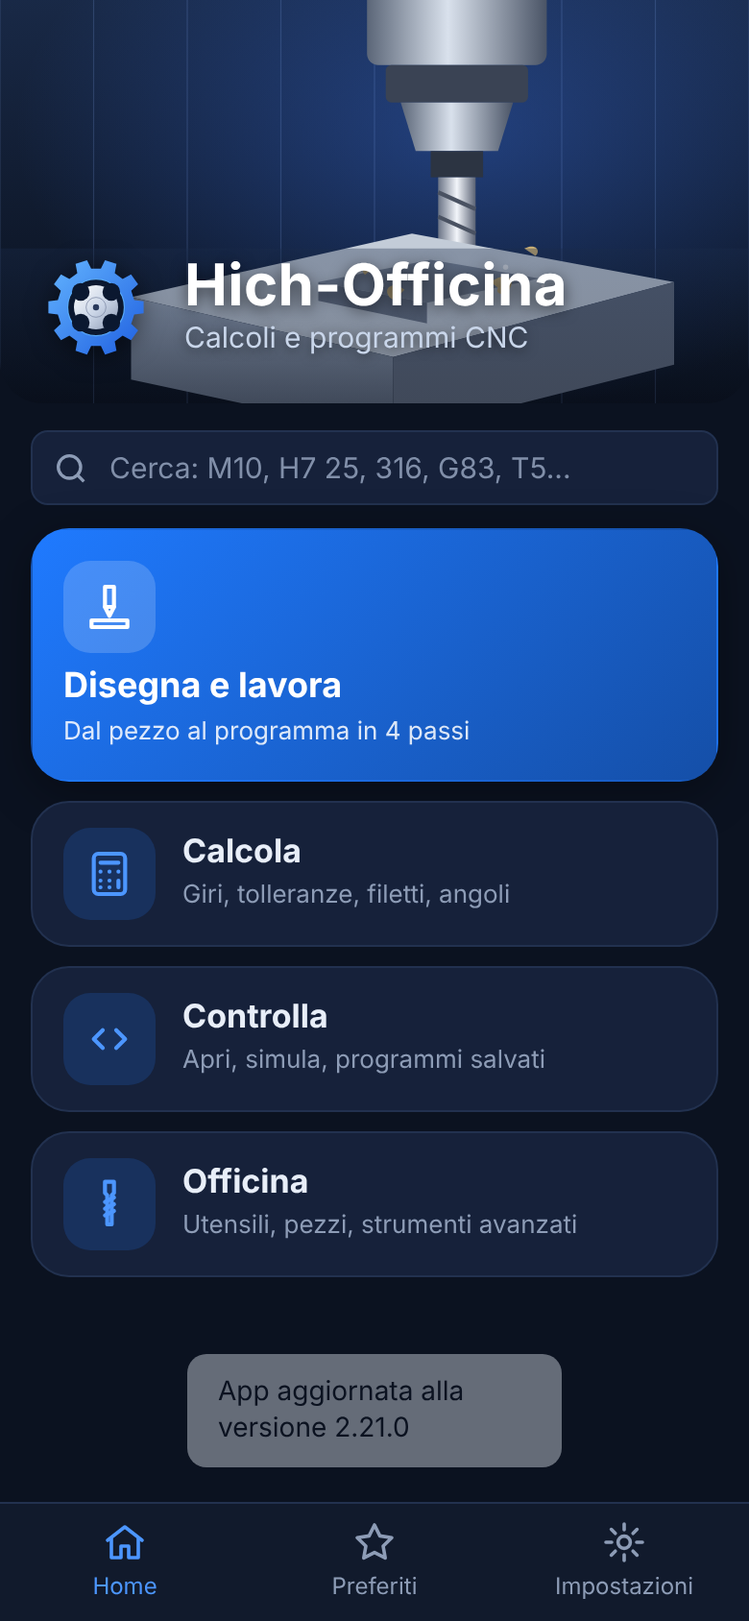
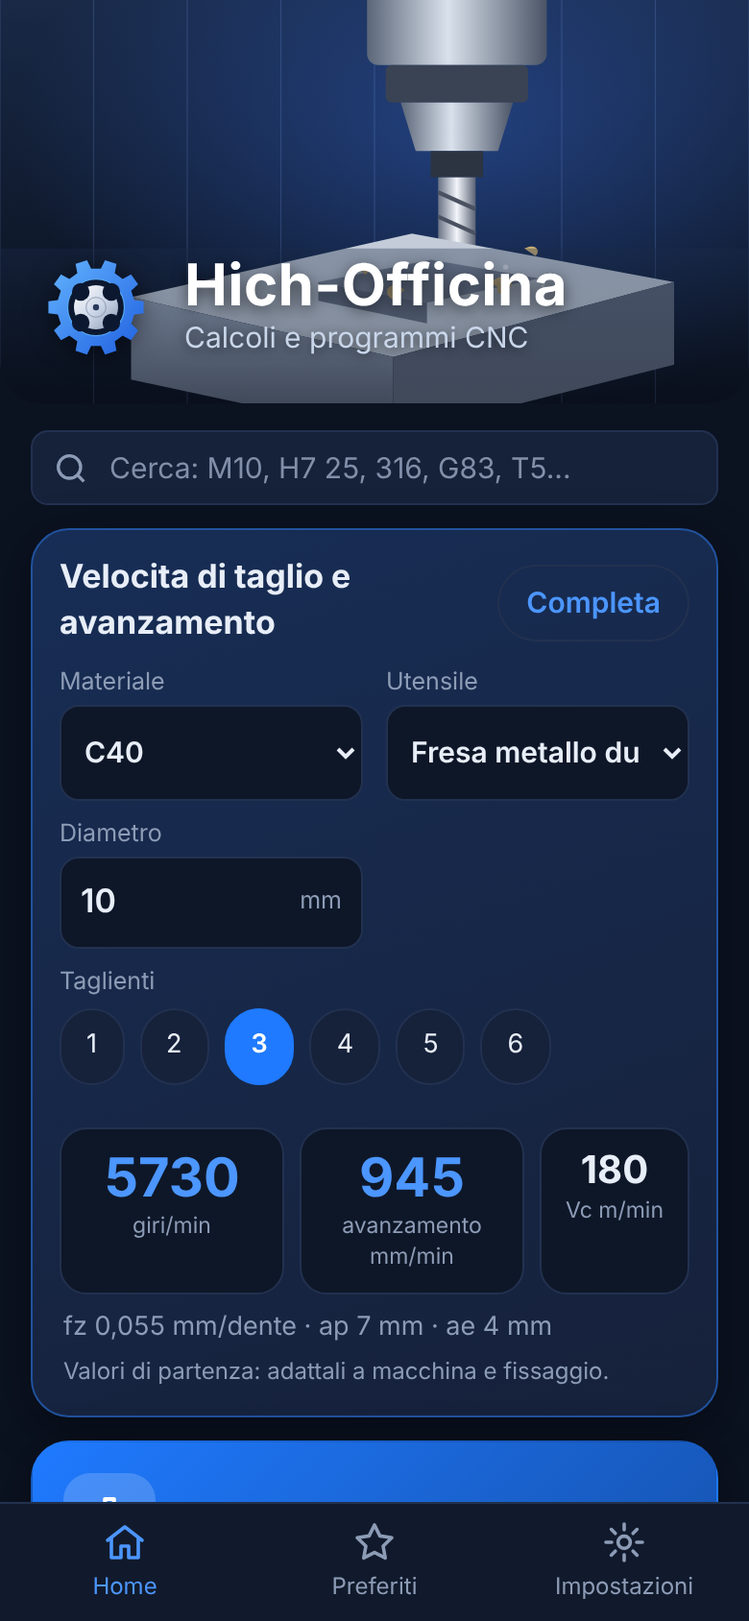
Hich-Officina 2.27.0: velocita di taglio e avanzamento in primo piano nella home
Claude-Session: https://claude.ai/code/session_01BbyHZTctjVowPbLungDKds

diff --git a/guida.html b/guida.html
@@ -25,7 +25,7 @@
   <h1>Come si fa</h1>
   <p class="sotto">Ogni funzione in pochi passi, con un esempio. La stessa guida e nell'app, con il pulsante per stampare o salvare in PDF.</p>
   <ul class="indice"><li><a href="#giri">Calcolare giri e avanzamenti</a></li><li><a href="#programma">Fare un programma di fresa, foratura o tornio</a></li><li><a href="#sequenza">Piu lavorazioni in un programma</a></li><li><a href="#profilo">Disegnare un profilo da tornio</a></li><li><a href="#dalDisegno">Dalla foto del disegno al pezzo</a></li><li><a href="#lavoro">Dal pezzo al programma in 4 passi</a></li><li><a href="#officina">Calcoli d'officina: barra seno, ingranaggi, dilatazione, potenza</a></li><li><a href="#cad">Disegnare e programmare la fresa col dito</a></li><li><a href="#ciclo">Ciclo di lavoro proposto</a></li><li><a href="#controllo">Controllare e simulare un programma</a></li><li><a href="#angolo">Misurare un angolo da una foto</a></li><li><a href="#tolleranze">Tolleranze e controllo misure</a></li><li><a href="#macro">Macro</a></li><li><a href="#pezzi">Pezzi, foto e foglio di attrezzaggio</a></li><li><a href="#utensili">Tabella utensili e materiali</a></li><li><a href="#macchina">Mandare il programma alla macchina</a></li><li><a href="#copia">Copia di sicurezza</a></li></ul>
-  <article id="giri" class="guida"><h2>Calcolare giri e avanzamenti</h2><ol><li>Home, Calcolatrice di taglio, scheda &quot;Per utensile&quot;.</li><li>Scegli il materiale, il tipo di utensile e il diametro.</li><li>Leggi giri al minuto, velocita di taglio, avanzamento e tutti gli utensili del materiale in tabella.</li></ol><p class="esempio"><b>Esempio:</b> Fresa D10 a 3 taglienti in C40: Vc 180 m/min, circa 5.730 giri/min, avanzamento 0,055 mm/dente.</p><p class="avviso"><b>Attenzione:</b> I valori sono di partenza: adattali a macchina, fissaggio e utensile.</p></article>
+  <article id="giri" class="guida"><h2>Calcolare giri e avanzamenti</h2><ol><li>Subito in cima alla home: scegli materiale e utensile, scrivi il diametro (e i taglienti): leggi giri, avanzamento e Vc. &quot;Completa&quot; apre la calcolatrice con tutti gli utensili.</li><li>Calcolatrice di taglio, scheda &quot;Per utensile&quot;.</li><li>Scegli il materiale, il tipo di utensile e il diametro.</li><li>Leggi giri al minuto, velocita di taglio, avanzamento e tutti gli utensili del materiale in tabella.</li></ol><p class="esempio"><b>Esempio:</b> Fresa D10 a 3 taglienti in C40: Vc 180 m/min, circa 5.730 giri/min, avanzamento 0,055 mm/dente.</p><p class="avviso"><b>Attenzione:</b> I valori sono di partenza: adattali a macchina, fissaggio e utensile.</p></article>
   <article id="programma" class="guida"><h2>Fare un programma di fresa, foratura o tornio</h2><ol><li>Home, Nuovo programma ISO. Scegli Fresatura, Foratura o Tornitura.</li><li>Scegli materiale e lavorazione, poi scrivi le misure.</li><li>Vc e avanzamento si riempiono dal materiale: li puoi correggere.</li><li>&quot;Genera programma ISO&quot;: copia, condividi, salva o simula.</li></ol><p class="esempio"><b>Esempio:</b> Foratura: M10x1,5 su 6 fori a cerchio D80: preforo 8,5, ciclo G84, giri e avanzamento dal materiale.</p><p class="avviso"><b>Attenzione:</b> Prova sempre a vuoto la prima volta.</p></article>
   <article id="sequenza" class="guida"><h2>Piu lavorazioni in un programma</h2><ol><li>In Fresatura o Foratura premi &quot;Aggiungi alla sequenza&quot; dopo ogni lavorazione.</li><li>&quot;Foro completo&quot; aggiunge centrino, punta, smusso e maschio o alesatore.</li><li>Scheda Sequenza: sposta con le frecce o &quot;Ordina come in officina&quot;.</li></ol><p class="esempio"><b>Esempio:</b> Spianatura, 4 fori M8 e contorno: l'ordine di officina li mette nella sequenza giusta e non fa il cambio utensile due volte.</p><p class="avviso"><b>Attenzione:</b> Un maschio prima del suo preforo non viene accettato.</p></article>
   <article id="profilo" class="guida"><h2>Disegnare un profilo da tornio</h2><ol><li>Home, Disegna un profilo. Tocca nel vuoto per i punti, a mano libera per un tratto.</li><li>Tocca una linea: la elimini, ne cambi Ø e lunghezza, la dividi, la fai arco.</li><li>Aggiungi linee con i bottoni Cilindro, Spallamento, Cono, Arco.</li><li>Su un cilindro: filetto, gola di scarico, tolleranza. Smussi e raggi con un tocco.</li><li>&quot;Crea il programma&quot; fa sgrossatura, finitura, gole e filetti.</li></ol><p class="esempio"><b>Esempio:</b> Albero: Ø20 lungo 25 con filetto M20x2,5 e gola, Ø30 h6 lungo 20: il Ø30 si finisce a 29,994.</p><p class="avviso"><b>Attenzione:</b> Due dita per lo zoom, la lente non c'e nel disegno: scrivi le quote nel riquadro della linea.</p></article>
@@ -45,7 +45,7 @@
 </div></section>
 </main>
 <footer class="piede"><div class="largo">
-  <p><b>Hich-Officina</b> 2.26.0 · Hich Tools</p>
+  <p><b>Hich-Officina</b> 2.27.0 · Hich Tools</p>
   <p class="piccolo">I valori di taglio e i programmi sono di partenza e indicativi: vanno sempre controllati e provati a vuoto prima di lavorare. I nomi dei controlli citati nell'app indicano solo la compatibilita e appartengono ai rispettivi proprietari.</p>
   <p class="piccolo"><a href="privacy.html">Privacy</a> · <a href="guida.html">Guida</a> · <a href="novita.html">Novita</a> · <a href="mailto:hichamloukili2020195@gmail.com">hichamloukili2020195@gmail.com</a></p>
 </div></footer>

diff --git a/novita.html b/novita.html
@@ -24,6 +24,7 @@
 <section class="sezione"><div class="largo stretto">
   <h1>Novita</h1>
   <p class="sotto">Cosa e cambiato in ogni versione, dalla piu recente.</p>
+  <article class="versione"><h2><span class="num">2.27.0</span> Velocita di taglio e avanzamento in primo piano</h2><ul><li>**In cima alla home** c'e il calcolo rapido: materiale, utensile e diametro (con il tastierino grande e i taglienti a un tocco) danno subito **giri al minuto, avanzamento e velocita di taglio**, piu fz o fn, passata e passo laterale.</li><li>Vale per tutti gli utensili (fresa, punta, alesatore, bareno, maschio, lamatore, inserto da tornio) e usa gli stessi dati della calcolatrice completa: i valori restano gli stessi tra le due. Il tasto &quot;Completa&quot; apre la calcolatrice con tutti gli utensili.</li><li>I giri restano limitati al massimo delle Impostazioni, e la nota ricorda che i valori sono di partenza.</li></ul></article>
   <article class="versione"><h2><span class="num">2.26.0</span> Segnala un problema</h2><ul><li>**Impostazioni, &quot;Segnala un problema&quot;**: apre l'email gia scritta con versione, schermata, telefono e misura dello schermo, per i tester e per chi usa l'app.</li><li>L'indirizzo di contatto viene da `sito.json` (copiato in `contatto.js` da `node tools/sito.js`): non e scritto nel codice.</li><li>`docs/TEST_CHIUSO.md`: come iscrivere i tester, il messaggio da mandare, le cinque prove e cosa chiedere nel resoconto.</li></ul></article>
   <article class="versione"><h2><span class="num">2.25.0</span> Dal disegno: richiami dei fori, flange, tolleranze geometriche</h2><ul><li>**Richiami su piu righe** letti come una quota sola: &quot;N°4 Fori Ø13 / Passanti / Equidistanti&quot;, &quot;N°3 Fori Lamati Ø13 / Lamatura Ø18.5 / Prof.lamatura 13&quot;, &quot;N°2 Fori spina Ø10 H7 / Prof.foro 10 / A 180°&quot;. Prima &quot;N°&quot; e &quot;Fori&quot; con la maiuscola non si capivano e le righe sotto si perdevano.</li><li>**Riquadri di tolleranza geometrica** (posizione, concentricita) ignorati: prima &quot;Ø 0.1 A B&quot; diventava un foro.</li><li>Ignorati anche il **cartiglio** con le tolleranze generali (smussi, raggi, angoli, rugosita), le **date**, le **quote di riferimento tra parentesi** e gli **scostamenti** (+0.2); le sigle delle flange (ISO F12) non sono tolleranze.</li><li>Nuove quote: **angoli** (30°, 22,5°, A 180°), **fresature** (Fresatura 3 Profondita 2), lamature e profondita.</li><li>**Pezzi tondi** (flange, dischi): il diametro piu grande e il pezzo, il centro e nel mezzo; ogni gruppo di fori va sul **suo cerchio** (la scritta &quot;Fori spina&quot; lega il cerchio ai fori spina), il primo foro all'angolo di mezzo passo se e quotato.</li><li>**Lamatura** nei fori: nel passo Forma (interruttore Lamatura) e nel programma, con il lamatore dopo la punta e la sosta sul fondo.</li><li>Ogni dubbio si dice: spessore che non c'e nella pianta, cerchio e angolo dei fori da controllare, diametri del tornio, fresature da mettere dove vanno.</li></ul></article>
   <article class="versione"><h2><span class="num">2.24.0</span> Dal disegno al pezzo, con la conferma di ogni quota</h2><ul><li>**Foto del disegno**: l'app legge le quote **e dove stanno** sul disegno, anche quelle scritte in verticale (la foto si legge anche girata di 90 gradi). Il cartiglio (scala, revisione, tolleranze generali, note) non da quote; il materiale scritto nel cartiglio si prende.</li><li>Le quote sono **numerate sulla foto** con il colore dello stato: da controllare, giusta, scartata. Ognuna si conferma, si scarta o si corregge scrivendo; quelle mancanti si aggiungono toccando la foto.</li><li>**Tornio**: i diametri si mettono in fila lungo l'asse, la testa e dove c'e il filetto (o il diametro piu piccolo), le lunghezze vanno al loro diametro; una lunghezza mancante si ricava dal totale, una somma che non torna si dice. Filetto con gola, tolleranze, smusso di testa, barra commerciale. &quot;Inverti testa e mandrino&quot; se serve.</li><li>**Fresa**: misure del pezzo, spessore, fori ripetuti, filetti e fori singoli; le posizioni dei fori si propongono e vanno controllate.</li><li>**Niente senza conferma**: &quot;Crea il pezzo&quot; si accende solo quando tutte le quote sono controllate; il pezzo va nel lavoro guidato con l'avviso di ricontrollarlo.</li><li>Nel browser (senza la lettura del telefono) le quote si aggiungono a mano sulla foto.</li></ul></article>
@@ -57,7 +58,7 @@
 </div></section>
 </main>
 <footer class="piede"><div class="largo">
-  <p><b>Hich-Officina</b> 2.26.0 · Hich Tools</p>
+  <p><b>Hich-Officina</b> 2.27.0 · Hich Tools</p>
   <p class="piccolo">I valori di taglio e i programmi sono di partenza e indicativi: vanno sempre controllati e provati a vuoto prima di lavorare. I nomi dei controlli citati nell'app indicano solo la compatibilita e appartengono ai rispettivi proprietari.</p>
   <p class="piccolo"><a href="privacy.html">Privacy</a> · <a href="guida.html">Guida</a> · <a href="novita.html">Novita</a> · <a href="mailto:hichamloukili2020195@gmail.com">hichamloukili2020195@gmail.com</a></p>
 </div></footer>

diff --git a/schermi_calcoli.js b/schermi_calcoli.js
@@ -334,6 +334,56 @@
       aggiorna();
     }
   }
+  /**
+   * Calcolo rapido di velocita di taglio, giri e avanzamento: sta in cima alla home. Usa gli stessi valori della
+   * calcolatrice completa (sezione "utensili"), cosi i due si trovano sempre uguali.
+   */
+  A.calcoloRapido = function () {
+    const S = A.sezione('utensili');
+    if (!A.materiale(S.mat || 0)) S.mat = '0';
+    if (S.mat === undefined || S.mat === '') S.mat = String(Math.min(4, Math.max(0, A.materiali().length - 1)));
+    if (!O.UTENSILI.some(u => u[0] === S.tipo)) S.tipo = 'fresa';
+    if (S.d === undefined || S.d === '') S.d = '10';
+    const scheda = el('section', { class: 'rapido', id: 'rapido', 'aria-label': 'Calcolo rapido di velocita di taglio e avanzamento' });
+    const corpo = el('div', { class: 'rapido-corpo' });
+    const ris = el('div', { class: 'rapido-ris', 'aria-live': 'polite' });
+    const dopo = () => { A.salva(); aggiorna(); };
+    const sel = (id, et, scelte, valore, cambia) => {
+      const s2 = el('select', { id, 'aria-label': et }, scelte.map(([v, t]) => el('option', { value: v, testo: t })));
+      s2.value = String(valore);
+      s2.addEventListener('change', () => cambia(s2.value));
+      return el('label', { class: 'cn' }, [el('span', { class: 'cn-et', testo: et }), el('span', { class: 'cn-box sel' }, [s2])]);
+    };
+    const campi = el('div', { class: 'rapido-campi' });
+    const aggiorna = () => {
+      const tipo = S.tipo, mt = A.materiale(S.mat || 0), nmax = tipo === 'inserto' ? A.imp().nmaxTornio : A.imp().nmaxFresa;
+      const fresa = /^(fresa|fresaFin|filettaFresa)$/.test(tipo);
+      const d = O.num(S.d), z = O.num(S.z) > 0 ? O.num(S.z) : 3, passo = O.num(S.passo) > 0 ? O.num(S.passo) : 1.5;
+      campi.innerHTML = '';
+      campi.append(sel('rapido-mat', 'Materiale', A.sceltaMateriali(), S.mat, v => { S.mat = v; dopo(); }),
+        sel('rapido-tipo', 'Utensile', O.UTENSILI, tipo, v => { S.tipo = v; dopo(); }),
+        A.campoNum(S, 'd', tipo === 'inserto' ? 'Diametro del pezzo' : 'Diametro', 'mm', () => { A.salva(); risultato(); }));
+      if (fresa) campi.appendChild(el('div', { class: 'cn' }, [el('span', { class: 'cn-et', testo: 'Taglienti' }), el('div', { class: 'chips', role: 'group', 'aria-label': 'Numero di taglienti' }, [1, 2, 3, 4, 5, 6].map(n => el('button', { class: 'chip' + (z === n ? ' attiva' : ''), 'data-z': String(n), testo: String(n), onclick: () => { S.z = String(n); dopo(); } })))]));
+      if (tipo === 'maschio') campi.appendChild(A.campoNum(S, 'passo', 'Passo del filetto', 'mm', () => { A.salva(); risultato(); }));
+      risultato();
+      function risultato() {
+        const r = O.datiTaglio(mt, { tipo, d: O.num(S.d), z, passo, nmax });
+        ris.innerHTML = '';
+        if (!r) { ris.appendChild(el('p', { class: 'rapido-vuoto', testo: d > 0 ? 'Per questo materiale non ci sono dati per questo utensile.' : 'Scrivi il diametro.' })); return; }
+        ris.appendChild(el('div', { class: 'rapido-kpi' }, [
+          el('div', { class: 'k grande' }, [el('b', { id: 'rapido-n', testo: fmt(r.n, 0) }), el('small', { testo: 'giri/min' })]),
+          el('div', { class: 'k grande' }, [el('b', { id: 'rapido-f', testo: fmt(r.f, 0) }), el('small', { testo: 'avanzamento mm/min' })]),
+          el('div', { class: 'k' }, [el('b', { id: 'rapido-vc', testo: fmt(r.vc, 0) }), el('small', { testo: 'Vc m/min' })])]));
+        const riga = [r.fz !== undefined ? 'fz ' + fmt(r.fz, 3) + ' mm/dente' : 'fn ' + fmt(r.fn, 3) + ' mm/giro', r.ap !== undefined ? 'ap ' + fmt(r.ap, 1) + ' mm' : '', r.ae !== undefined ? 'ae ' + fmt(r.ae, 1) + ' mm' : ''].filter(Boolean).join(' · ');
+        ris.appendChild(el('p', { class: 'rapido-riga', testo: riga + (r.n >= nmax ? ' · giri limitati al massimo (' + nmax + ')' : '') }));
+      }
+    };
+    corpo.append(campi, ris);
+    scheda.append(el('div', { class: 'rapido-testa' }, [el('b', { testo: 'Velocita di taglio e avanzamento' }), el('button', { class: 'rapido-apri', id: 'rapido-completo', 'aria-label': 'Apri la calcolatrice completa', testo: 'Completa', onclick: () => A.vai('utensili') })]), corpo,
+      el('p', { class: 'leggenda rapido-nota', testo: 'Valori di partenza: adattali a macchina e fissaggio.' }));
+    aggiorna();
+    return scheda;
+  };
   A.schermi.utensili = { titolo: 'Calcolatrice di taglio', preferibile: false, render() { A.mem.calc = 'utensile'; A.salva(); location.replace('#calcoli'); } };
 
   // ----- tolleranze e accoppiamenti -----

diff --git a/prove/ui.js b/prove/ui.js
@@ -722,6 +722,39 @@ const server = http.createServer((q, r) => {
     await vai('home');
   }
 
+  // ===== 2.27.0: velocita di taglio e avanzamento in primo piano =====
+  {
+    await pg.evaluate(() => { Object.keys(App.sezione('utensili')).forEach(k => delete App.sezione('utensili')[k]); App.salva(); App.ridisegna(); });
+    await vai('home'); await pg.waitForTimeout(120);
+    ok(await pg.isVisible('#rapido'), 'calcolo rapido nella home');
+    const sopra = await pg.evaluate(() => { const r = document.querySelector('#rapido').getBoundingClientRect(), i = document.querySelector('.ingressi').getBoundingClientRect(); return r.top < i.top; });
+    ok(sopra, 'il calcolo rapido sta sopra i quattro ingressi');
+    const attesi = await pg.evaluate(() => { const S = App.sezione('utensili'), r = App.O.datiTaglio(App.materiale(S.mat), { tipo: S.tipo, d: Number(S.d), z: 3, nmax: App.imp().nmaxFresa }); return [App.fmt(r.n, 0), App.fmt(r.f, 0), App.fmt(r.vc, 0), S.tipo, S.d]; });
+    ok((await pg.textContent('#rapido-n')) === attesi[0] && (await pg.textContent('#rapido-f')) === attesi[1] && (await pg.textContent('#rapido-vc')) === attesi[2], 'giri, avanzamento e Vc come nella calcolatrice: ' + attesi.join(','));
+    // cambio materiale: i valori cambiano
+    const nC40 = await pg.textContent('#rapido-n');
+    await pg.selectOption('#rapido-mat', { label: 'Alluminio' }); await pg.waitForTimeout(60);
+    ok((await pg.textContent('#rapido-n')) !== nC40 && Number((await pg.textContent('#rapido-vc')).replace('.', '')) > 200, 'alluminio: giri e Vc diversi dal C40');
+    // diametro scritto col tastierino
+    await pg.locator('#rapido .cn', { hasText: 'Diametro' }).locator('input').click();
+    await pg.click('.tast-k[aria-label="Cancella tutto"]'); await pg.click('.tast-k[aria-label="2"]'); await pg.click('.tast-k[aria-label="0"]'); await pg.click('.tast-k[aria-label="Conferma"]'); await pg.waitForTimeout(60);
+    const n20 = await pg.evaluate(() => { const S = App.sezione('utensili'); return [S.d, App.fmt(App.O.datiTaglio(App.materiale(S.mat), { tipo: S.tipo, d: 20, z: 3, nmax: App.imp().nmaxFresa }).n, 0)]; });
+    ok(n20[0] === '20' && (await pg.textContent('#rapido-n')) === n20[1], 'diametro 20 col tastierino: ' + n20.join());
+    // taglienti e utensile
+    await pg.click('#rapido [data-z="4"]'); await pg.waitForTimeout(40);
+    ok((await pg.evaluate(() => App.sezione('utensili').z)) === '4', 'taglienti');
+    await pg.selectOption('#rapido-tipo', 'maschio'); await pg.waitForTimeout(60);
+    ok((await pg.$$eval('#rapido [data-z]', x => x.length)) === 0 && (await pg.textContent('#rapido')).includes('Passo del filetto'), 'maschio: niente taglienti, c\'e il passo');
+    ok((await pg.textContent('#rapido')).includes('fn') || (await pg.textContent('#rapido')).includes('mm/giro'), 'maschio: avanzamento per giro');
+    await pg.selectOption('#rapido-tipo', 'fresa'); await pg.waitForTimeout(40);
+    // la calcolatrice completa ha gli stessi valori
+    await pg.click('#rapido-completo'); await pg.waitForTimeout(150);
+    ok((await pg.evaluate(() => location.hash)) === '#calcoli', 'apre la calcolatrice completa');
+    ok((await pg.inputValue('#f-d')) === '20' && (await pg.inputValue('#f-tipo')) === 'fresa', 'stessi valori nella calcolatrice completa');
+    await largo('home con il calcolo rapido');
+    await vai('home'); await foto('48-home-rapido');
+  }
+
   // ===== 2.26.0: segnala un problema =====
   {
     await vai('impostazioni'); await pg.waitForTimeout(60);

diff --git a/stile.css b/stile.css
@@ -554,3 +554,27 @@ body.con-tastierino .lav-barra{display:none}
 .lav-foto{display:flex;align-items:center;gap:12px;width:100%;text-align:left;padding:14px;border-radius:var(--r2);border:1px solid color-mix(in srgb,var(--accento) 55%,var(--bordo));background:color-mix(in srgb,var(--accento) 12%,var(--riga));color:var(--testo);cursor:pointer}
 .lav-foto .ic{width:42px;height:42px;border-radius:12px;display:grid;place-items:center;background:var(--accento);color:#fff;flex:0 0 auto}
 .lav-foto .t b{display:block}.lav-foto .t small{color:var(--tenue)}
+
+/* ----- calcolo rapido in cima alla home ----- */
+.rapido{background:linear-gradient(160deg,color-mix(in srgb,var(--accento) 14%,var(--riga)),var(--riga));border:1px solid color-mix(in srgb,var(--accento) 45%,var(--bordo));border-radius:var(--r3);padding:14px;margin:8px 0 12px;box-shadow:var(--ombra)}
+.rapido-testa{display:flex;align-items:center;justify-content:space-between;gap:8px;margin-bottom:10px}
+.rapido-testa b{font-size:17px}
+.rapido-apri{background:none;border:1px solid var(--bordo);color:var(--accento2);border-radius:99px;padding:8px 14px;font-weight:600;cursor:pointer;min-height:40px}
+.rapido-campi{display:grid;grid-template-columns:repeat(2,minmax(0,1fr));gap:10px 12px}
+.rapido-campi>.cn:nth-child(3),.rapido-campi>.cn:nth-child(n+4){grid-column:auto}
+.cn-box.sel{padding:0}
+.cn-box.sel select{width:100%;min-height:48px;background:none;border:0;color:var(--testo);font:600 15px var(--font);padding:0 8px;outline:none}
+.cn-box.sel select option{background:var(--pannello);color:var(--testo)}
+.rapido-ris{margin-top:12px}
+.rapido-kpi{display:grid;grid-template-columns:1.2fr 1.2fr .8fr;gap:8px}
+.rapido-kpi .k{background:var(--campo);border:1px solid var(--bordo);border-radius:var(--r2);padding:10px 8px;text-align:center;min-width:0}
+.rapido-kpi .k b{display:block;font-size:20px;line-height:1.1}
+.rapido-kpi .k.grande b{font-size:28px;color:var(--accento2)}
+.rapido-kpi .k small{display:block;color:var(--tenue);font-size:11.5px;margin-top:2px}
+.rapido-riga{margin:8px 2px 0;color:var(--tenue);font-size:13.5px}
+.rapido-vuoto{margin:0;padding:12px;color:var(--tenue);text-align:center}
+.rapido-nota{margin:6px 2px 0}
+@media (max-width:360px){.rapido-kpi{grid-template-columns:1fr 1fr}.rapido-kpi .k:last-child{grid-column:1/-1}}
+@media (min-width:760px){.rapido-campi{grid-template-columns:repeat(4,minmax(0,1fr))}}
+.rapido-campi .cn:has(.chips){grid-column:1/-1}
+.rapido-campi .chips{flex-wrap:wrap}

diff --git a/guida_dati.js b/guida_dati.js
@@ -3,7 +3,7 @@
   'use strict';
   const GUIDA = [
     { id: 'giri', t: 'Calcolare giri e avanzamenti', vai: 'calcoli',
-      passi: ['Home, Calcolatrice di taglio, scheda "Per utensile".', 'Scegli il materiale, il tipo di utensile e il diametro.', 'Leggi giri al minuto, velocita di taglio, avanzamento e tutti gli utensili del materiale in tabella.'],
+      passi: ['Subito in cima alla home: scegli materiale e utensile, scrivi il diametro (e i taglienti): leggi giri, avanzamento e Vc. "Completa" apre la calcolatrice con tutti gli utensili.', 'Calcolatrice di taglio, scheda "Per utensile".', 'Scegli il materiale, il tipo di utensile e il diametro.', 'Leggi giri al minuto, velocita di taglio, avanzamento e tutti gli utensili del materiale in tabella.'],
       esempio: 'Fresa D10 a 3 taglienti in C40: Vc 180 m/min, circa 5.730 giri/min, avanzamento 0,055 mm/dente.', attenzione: 'I valori sono di partenza: adattali a macchina, fissaggio e utensile.' },
     { id: 'programma', t: 'Fare un programma di fresa, foratura o tornio', vai: 'programma',
       passi: ['Home, Nuovo programma ISO. Scegli Fresatura, Foratura o Tornitura.', 'Scegli materiale e lavorazione, poi scrivi le misure.', 'Vc e avanzamento si riempiono dal materiale: li puoi correggere.', '"Genera programma ISO": copia, condividi, salva o simula.'],

diff --git a/app.js b/app.js
@@ -447,7 +447,7 @@
     migra, hash, chiedi, conferma, SCHEMA,
     O, $, el, esc, fmt, arrot, icona, mem, salva, sezione, imp, IMPOSTAZIONI_SERIE, applicaTema, materiali, materiale, sceltaMateriali,
     avviso, modulo, numeri, ANDROID, misuratore, griglia, info, copia, scarica, condividi, condividiFile, salvaIn, stampa, scegliTesto, Foto, riduciFoto, pulsantiFoto, schermoPieno, ruotaSchermo, campoNum, chiudiTastierino, mailSegnalazione,
-    schermi: {}, param: {}, VERSIONE: '2.26.0'
+    schermi: {}, param: {}, VERSIONE: '2.27.0'
   };
   window.App = App;
 
@@ -570,6 +570,7 @@
       const cerca = el('input', { id: 'f-cerca-home', type: 'search', placeholder: 'Cerca: M10, H7 25, 316, G83, T5...', autocomplete: 'off', spellcheck: 'false', enterkeyhint: 'search' });
       const risultati = el('div', { class: 'menu', hidden: true });
       const menu = el('div', { class: 'menu-sezioni' });
+      if (App.calcoloRapido) menu.appendChild(App.calcoloRapido());
       const L = mem.lavoro;
       const haLavoro = L && L.usato && ((L.fresa && (L.fresa.forme || []).length) || (L.tornio && (L.tornio.tratti || []).length));
       // primo avvio: una scheda (non blocca niente) con la macchina e i giri massimi

diff --git a/index.html b/index.html
@@ -61,7 +61,7 @@
 <script>(function () { var a = document.getElementById('apk'); if (!a) return; var u = a.getAttribute('data-apk'); if (!u) { var h = location.hostname.split('.'), r = location.pathname.split('/')[1]; if (h.length >= 3 && r && h[1] === 'github') u = 'https://github.com/' + h[0] + '/' + r + '/releases/download/apk/Hich-Officina.apk'; } if (u) a.href = u; else a.hidden = true; })();</script>
 </main>
 <footer class="piede"><div class="largo">
-  <p><b>Hich-Officina</b> 2.26.0 · Hich Tools</p>
+  <p><b>Hich-Officina</b> 2.27.0 · Hich Tools</p>
   <p class="piccolo">I valori di taglio e i programmi sono di partenza e indicativi: vanno sempre controllati e provati a vuoto prima di lavorare. I nomi dei controlli citati nell'app indicano solo la compatibilita e appartengono ai rispettivi proprietari.</p>
   <p class="piccolo"><a href="privacy.html">Privacy</a> · <a href="guida.html">Guida</a> · <a href="novita.html">Novita</a> · <a href="mailto:hichamloukili2020195@gmail.com">hichamloukili2020195@gmail.com</a></p>
 </div></footer>

diff --git a/404.html b/404.html
@@ -25,7 +25,7 @@
 <section class="sezione"><div class="largo stretto"><h1>Pagina non trovata</h1><p class="sotto">L'indirizzo non esiste piu o e scritto male.</p><p class="azioni"><a class="pul" href="index.html">Torna alla home</a> <a class="pul sec" href="app.html">Apri l'app</a></p></div></section>
 </main>
 <footer class="piede"><div class="largo">
-  <p><b>Hich-Officina</b> 2.26.0 · Hich Tools</p>
+  <p><b>Hich-Officina</b> 2.27.0 · Hich Tools</p>
   <p class="piccolo">I valori di taglio e i programmi sono di partenza e indicativi: vanno sempre controllati e provati a vuoto prima di lavorare. I nomi dei controlli citati nell'app indicano solo la compatibilita e appartengono ai rispettivi proprietari.</p>
   <p class="piccolo"><a href="privacy.html">Privacy</a> · <a href="guida.html">Guida</a> · <a href="novita.html">Novita</a> · <a href="mailto:hichamloukili2020195@gmail.com">hichamloukili2020195@gmail.com</a></p>
 </div></footer>

diff --git a/sw.js b/sw.js
@@ -1,5 +1,5 @@
 // Cache per usare l'app senza rete. Cambia VERSIONE a ogni aggiornamento dei file.
-const VERSIONE = 'hich-officina-2.26.0';
+const VERSIONE = 'hich-officina-2.27.0';
 const FILE = ['./app.html', './stile.css', './calcoli.js', './programmi.js', './profilo.js', './filetti.js', './iso.js', './post.js', './ciclo.js', './cad.js', './lavoro.js', './disegno_foto.js', './contatto.js', './app.js', './schermi_calcoli.js',
   './schermi_programma.js', './schermi_macro.js', './schermi_altro.js', './schermi_iso.js', './schermi_officina.js', './schermi_disegno.js', './schermi_cad.js', './schermi_lavoro.js', './schermi_disegno_foto.js', './schermi_ciclo.js', './schermi_angolo.js', './schermi_dati.js', './guida_dati.js', './schermi_guida.js', './manifest.webmanifest',
   './icone/icona.svg', './icone/icona-192.png', './icone/icona-512.png', './icone/icona-maskable-512.png'];

diff --git a/privacy.html b/privacy.html
@@ -54,7 +54,7 @@
 </div></section>
 </main>
 <footer class="piede"><div class="largo">
-  <p><b>Hich-Officina</b> 2.26.0 · Hich Tools</p>
+  <p><b>Hich-Officina</b> 2.27.0 · Hich Tools</p>
   <p class="piccolo">I valori di taglio e i programmi sono di partenza e indicativi: vanno sempre controllati e provati a vuoto prima di lavorare. I nomi dei controlli citati nell'app indicano solo la compatibilita e appartengono ai rispettivi proprietari.</p>
   <p class="piccolo"><a href="privacy.html">Privacy</a> · <a href="guida.html">Guida</a> · <a href="novita.html">Novita</a> · <a href="mailto:hichamloukili2020195@gmail.com">hichamloukili2020195@gmail.com</a></p>
 </div></footer>

diff --git a/CHANGELOG.md b/CHANGELOG.md
@@ -2,6 +2,11 @@
 
 Hich-Officina: una voce per versione, la piu recente in alto.
 
+## 2.27.0 - Velocita di taglio e avanzamento in primo piano
+- **In cima alla home** c'e il calcolo rapido: materiale, utensile e diametro (con il tastierino grande e i taglienti a un tocco) danno subito **giri al minuto, avanzamento e velocita di taglio**, piu fz o fn, passata e passo laterale.
+- Vale per tutti gli utensili (fresa, punta, alesatore, bareno, maschio, lamatore, inserto da tornio) e usa gli stessi dati della calcolatrice completa: i valori restano gli stessi tra le due. Il tasto "Completa" apre la calcolatrice con tutti gli utensili.
+- I giri restano limitati al massimo delle Impostazioni, e la nota ricorda che i valori sono di partenza.
+
 ## 2.26.0 - Segnala un problema
 - **Impostazioni, "Segnala un problema"**: apre l'email gia scritta con versione, schermata, telefono e misura dello schermo, per i tester e per chi usa l'app.
 - L'indirizzo di contatto viene da `sito.json` (copiato in `contatto.js` da `node tools/sito.js`): non e scritto nel codice.
